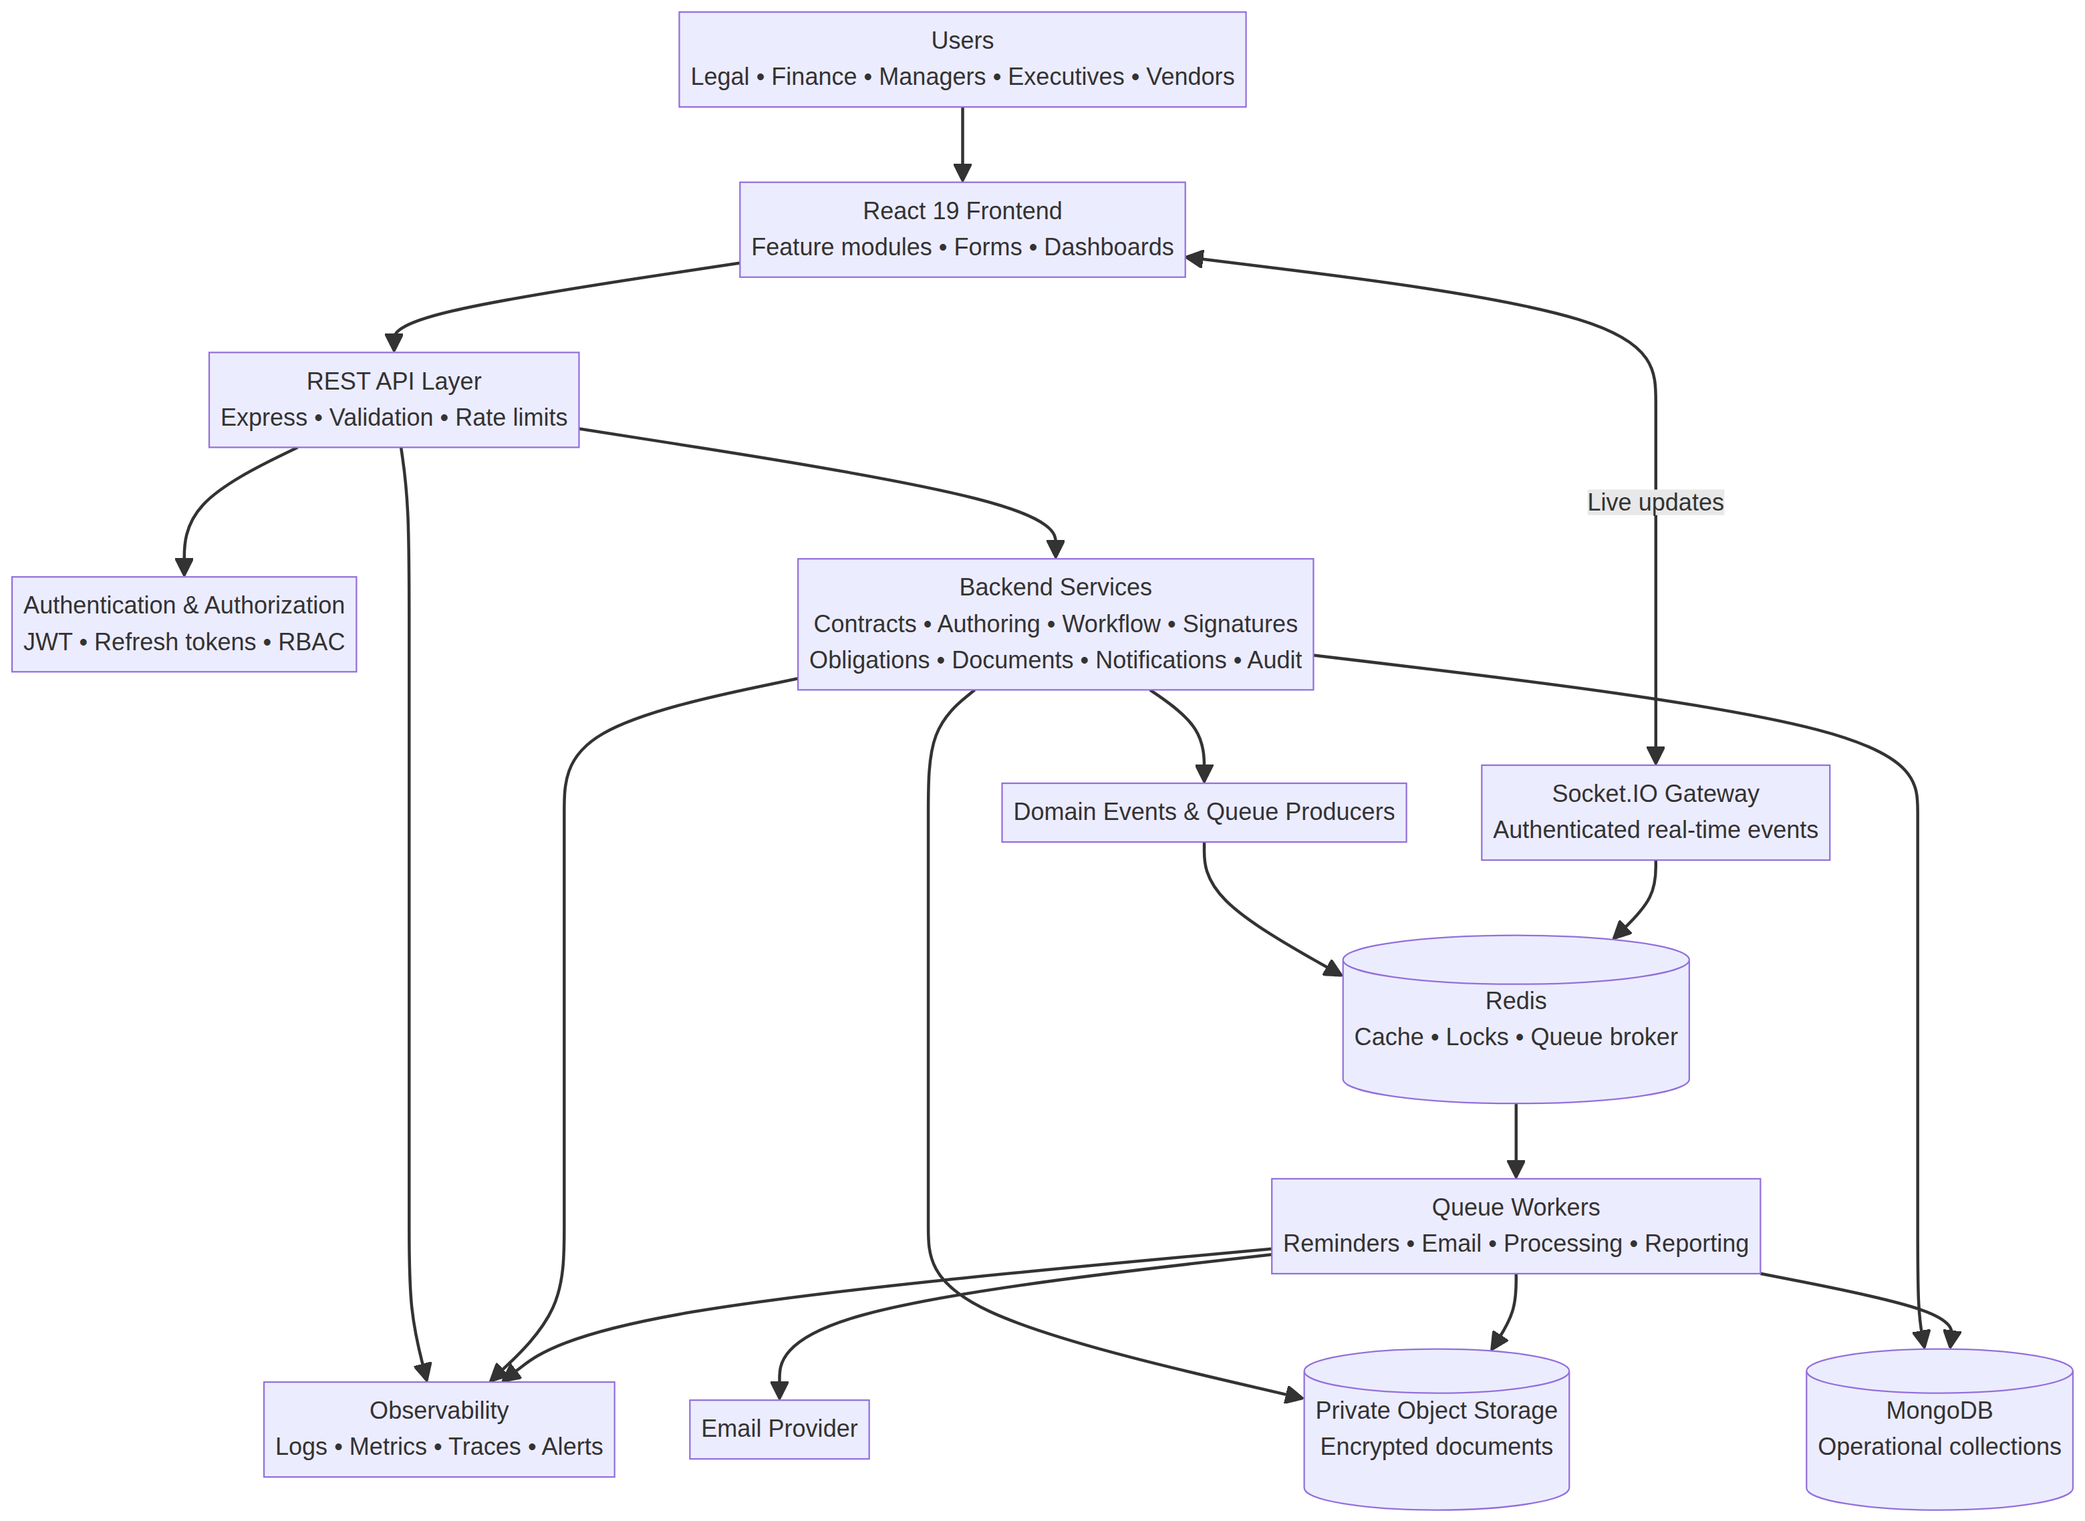
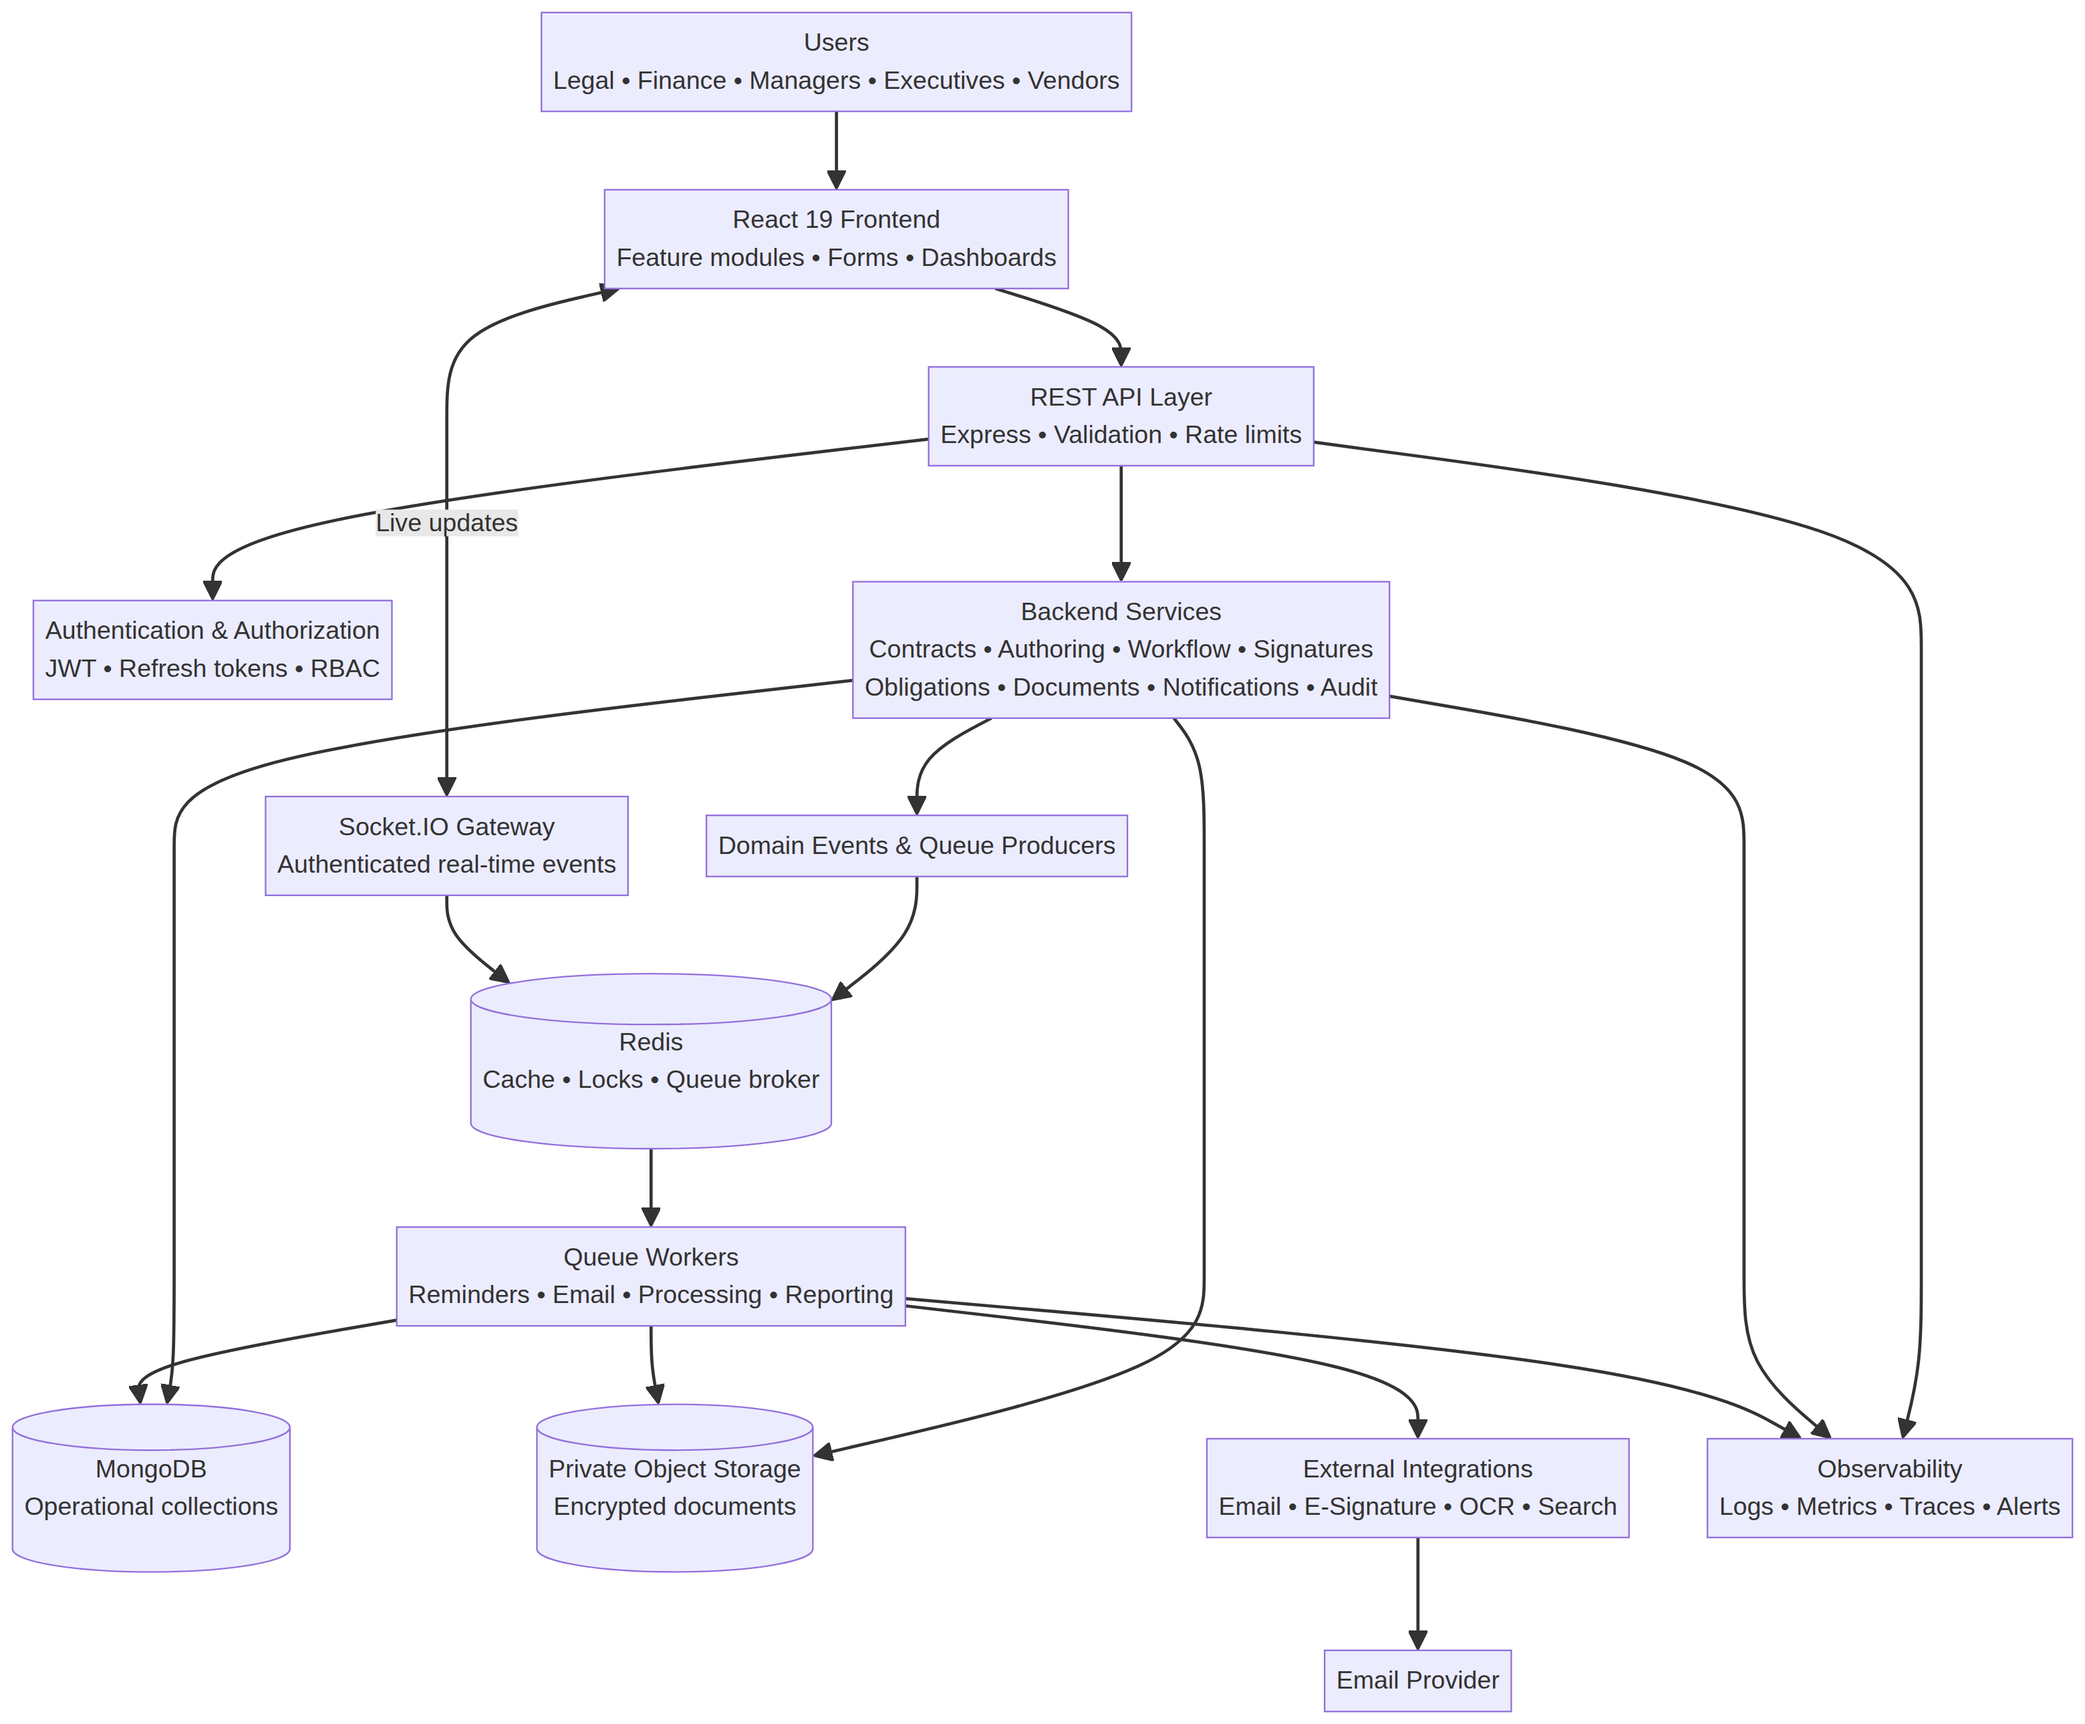
docs: add CovenX system architecture documentation

diff --git a/docs/Architecture.md b/docs/Architecture.md
@@ -67,6 +67,7 @@ flowchart TB
     WORK[Queue Workers\nReminders • Email • Processing • Reporting]
     OBJ[(Private Object Storage\nEncrypted documents)]
     IO[Socket.IO Gateway\nAuthenticated real-time events]
+    EXT[External Integrations\nEmail • E-Signature • OCR • Search]
     MAIL[Email Provider]
     OBS[Observability\nLogs • Metrics • Traces • Alerts]
 
@@ -82,7 +83,8 @@ flowchart TB
     REDIS --> WORK
     WORK --> DB
     WORK --> OBJ
-    WORK --> MAIL
+    WORK --> EXT
+    EXT --> MAIL
     IO --> REDIS
     API --> OBS
     SVC --> OBS
@@ -91,7 +93,8 @@ flowchart TB
 
 ### 2.2 Request and data boundaries
 
-The frontend never connects directly to MongoDB, Redis, object storage credentials, or the email provider. It calls the REST API using an access token and receives resource representations shaped for the current user’s permissions. Document uploads use a controlled upload-initiation API that returns a short-lived, scoped object-storage upload capability; finalization is performed through the API so metadata, virus-scanning status, ownership, and audit records remain authoritative.
+The frontend never connects directly to MongoDB, Redis, object storage credentials, or external integration providers.
+It calls the REST API using an access token and receives resource representations shaped for the current user’s permissions. Document uploads use a controlled upload-initiation API that returns a short-lived, scoped object-storage upload capability; finalization is performed through the API so metadata, virus-scanning status, ownership, and audit records remain authoritative.
 
 The API and workers are stateless at the process level. Durable state lives in MongoDB and object storage, while Redis contains recoverable or expiring coordination state. Domain events are persisted or made recoverable at the transactional boundary through an outbox-style event record before asynchronous publication. This prevents a contract mutation from committing without its downstream notification or audit intent being recorded.
 
@@ -281,7 +284,22 @@ examples:
 
 Authorization is evaluated at the API boundary and again inside the service before the sensitive mutation. A role is not itself a guarantee of access: the user must have the permission and the requested resource must satisfy scope rules. Vendor users are isolated to explicitly shared contracts and documents. Executive dashboards use aggregate permissions and must not become a side channel for unauthorized contract detail.
 
-### 6.3 Session handling
+### 6.3 Enterprise role model
+
+The initial role catalogue is deliberately explicit so product permissions and test matrices can be built against stable responsibilities:
+
+| Role | Primary responsibilities | Default access posture |
+|---|---|---|
+| **Super Admin** | Tenant configuration, user and role administration, workflow configuration, platform operations, and controlled audit access | Tenant-wide administration with separation-of-duties safeguards |
+| **Legal Officer** | Contract review, clause governance, legal risk assessment, approval participation, and compliance monitoring | Read and manage contracts within assigned business scope; approve legal tasks |
+| **Department Manager** | Contract requests, department metadata, business approvals, and department obligation oversight | Department-scoped contract and workflow access |
+| **Finance Reviewer** | Financial term validation, payment obligation review, value analytics, and finance approvals | Finance-scoped fields and assigned approval tasks |
+| **Executive Approver** | Strategic approval decisions and aggregate executive insights | Assigned executive approvals and authorized aggregate reporting |
+| **Vendor User** | Secure collaboration on explicitly shared contracts, documents, and signature tasks | Explicit-share scope only; no tenant-wide search or administrative access |
+
+Roles are permission bundles, not hard-coded bypasses. A user must satisfy the atomic permission and resource scope for each action. Temporary delegation and escalation preserve the original task, actor, reason, and expiry in the audit trail.
+
+### 6.4 Session handling
 
 Each session has a device or client label, creation time, last-used time, expiry, revocation state, and authentication version. Administrative revocation increments the user’s authentication version or revokes all session records. Redis may accelerate revocation checks, but MongoDB remains the durable source for session evidence. Authentication and authorization decisions emit audit events without recording secrets.
 
@@ -323,6 +341,12 @@ stateDiagram-v2
 | Archive | Contract is inactive and retained according to policy | Terminal | Archive reason, retention class, final audit event |
 
 Every transition is validated against the current state, actor permission, required fields, outstanding tasks, and concurrency token. Rejected transitions return a typed business error and do not partially mutate the contract. Automatic transitions, such as entering a renewal window, run through the same transition service as user actions and identify the scheduler as the initiating actor.
+
+### 7.3 Approval routing, escalation, and rejection
+
+Approval routing is selected from a versioned workflow definition using contract type, business unit, department, value thresholds, risk classification, and required review domains. A typical route assigns legal review first, then finance review when financial terms or value thresholds apply, followed by department or executive approval according to policy. Parallel steps are supported where policy permits, but the workflow engine records the completion condition explicitly.
+
+Each approval task has an assignee or role-based assignment, due date, SLA, decision state, comments, and delegation policy. A scheduled worker emits reminders before the due date and escalates overdue tasks to the configured supervisor or alternate queue. Escalation never erases the original assignment or deadline. A rejection records the decision reason, returns the contract to Draft or Review according to workflow policy, and requires a new version or explicit rework acknowledgement before resubmission. Approval completion is concurrency-safe and cannot be applied twice.
 
 ## 8. Notification Architecture
 
